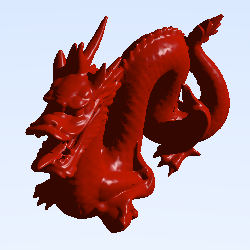
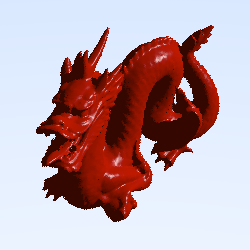
parallelize using rayon

Changed region(s): [[0.084, 0.056, 0.924, 0.952], [0.616, 0.308, 0.644, 0.336]]

diff --git a/src/main.rs b/src/main.rs
@@ -9,21 +9,17 @@ mod light;
 mod material;
 mod ray;
 
-use camera::orthographic_camera::OrthographicCamera;
 use camera::perspective_camera::PerspectiveCamera;
 use camera::Camera;
 use glm::Vec3;
-use hittable::bvh::BVH;
 use hittable::mesh::Mesh;
-use hittable::sphere::Sphere;
-use hittable::triangle::Triangle;
 use hittable::Hittable;
-use hittable_list::HittableList;
 use light::Light;
-use material::lambertian::Lambertian;
+use material::Material;
 use rand::prelude::thread_rng as rng;
 use rand::Rng;
 use ray::Ray;
+use rayon::prelude::*;
 
 // Camera projection types used for configuring which camera to use
 enum CameraProjection {
@@ -33,16 +29,15 @@ enum CameraProjection {
 
 // constants for image specifications
 // Change these to change the image!
-const IMAGE_WIDTH: u32 = 500 / 2; // 960 / 4;
-const IMAGE_HEIGHT: u32 = 500 / 2;
-const SAMPLES_LEVEL: usize = 1; // SAMPLES_LEVEL^2 samples per pixel
+const IMAGE_WIDTH: u32 = 500 * 2;
+const IMAGE_HEIGHT: u32 = 500 * 2;
+const SAMPLES_LEVEL: usize = 3; // SAMPLES_LEVEL^2 samples per pixel
 const EPSILON: f32 = 0.000008;
 const MAX_HIT_DISTANCE: f32 = f32::INFINITY;
 const AMBIENT_WEIGHT: f32 = 0.05;
 const DIFFUSE_WEIGHT: f32 = 0.8;
 const SPECULAR_WEIGHT: f32 = 0.5;
 const SPECULAR_COEFFICIENT: f32 = 120.0;
-const CAMERA_TYPE: CameraProjection = CameraProjection::Perspective;
 
 fn main() {
     // configure camera position
@@ -51,26 +46,14 @@ fn main() {
     let camera_up: Vec3 = glm::vec3(0.0, 1.0, 0.0);
 
     // create a camera
-    let ortho = &OrthographicCamera::new(
+    let camera = PerspectiveCamera::new(
         camera_origin,
         camera_lookat,
         camera_up,
-        45.0,
+        20.0,
         IMAGE_WIDTH as f32 / IMAGE_HEIGHT as f32,
     );
-    let perspective = &PerspectiveCamera::new(
-        camera_origin,
-        camera_lookat,
-        camera_up,
-        18.0,
-        IMAGE_WIDTH as f32 / IMAGE_HEIGHT as f32,
-    );
-    let camera: &dyn Camera = match CAMERA_TYPE {
-        CameraProjection::Orthographic => ortho,
-        CameraProjection::Perspective => perspective,
-    };
 
-    // let mesh = Mesh::create("assets/cow.obj", color(100, 200, 100), 22);
     let mesh = Mesh::create("assets/dragon.obj", color(158, 2, 0), 32);
 
     // create light source vector
@@ -80,47 +63,55 @@ fn main() {
     };
     let lights = vec![point_light1];
 
-    // convert from vector to adjusted and clamped RBG values
-    let vec3_to_rgb = |vec: &Vec3| {
-        let scaled = vec / (SAMPLES_LEVEL * SAMPLES_LEVEL) as f32;
-        let clamped = glm::clamp(&scaled, 0.0, 1.0);
-        let converted = clamped * 255.0;
-        image::Rgb([converted.x as u8, converted.y as u8, converted.z as u8])
-    };
-
-    // preallocate an array for the multi-jittered sampling
-    let mut jitter_boxes: [[[f32; 2]; SAMPLES_LEVEL]; SAMPLES_LEVEL] =
-        [[[0.0; 2]; SAMPLES_LEVEL]; SAMPLES_LEVEL];
-    // initialize the canonical arrangement for multi-jittered sampling
-    for j in 0..SAMPLES_LEVEL {
-        for i in 0..SAMPLES_LEVEL {
-            let j_float = j as f32;
-            let i_float = i as f32;
-            let n_float = SAMPLES_LEVEL as f32;
-            jitter_boxes[j][i][0] = (i_float + (j_float + rng().gen::<f32>()) / n_float) / n_float;
-            jitter_boxes[j][i][1] = (j_float + (i_float + rng().gen::<f32>()) / n_float) / n_float;
+    let mut pixel_coordinates: Vec<(u32, u32)> = Vec::new();
+    for x in (0..IMAGE_WIDTH).rev() {
+        for y in (0..IMAGE_HEIGHT).rev() {
+            pixel_coordinates.push((x, y));
         }
     }
-    println!("tracing rays . . .");
 
-    let mut img = image::RgbImage::new(IMAGE_WIDTH, IMAGE_HEIGHT);
-    let image_width = IMAGE_WIDTH as f32 - 1.0;
-    let image_height = IMAGE_HEIGHT as f32 - 1.0;
-    let mut pixel_color: Vec3;
-    for (x, y, pixel) in img.enumerate_pixels_mut() {
-        pixel_color = glm::vec3(0.0, 0.0, 0.0);
-        let jitter_boxes = shuffle_jittered_sampling(&mut jitter_boxes);
-        let x_float = x as f32;
-        let y_float = image_height - y as f32;
-        for j in 0..SAMPLES_LEVEL {
-            for i in 0..SAMPLES_LEVEL {
-                let u = (x_float + jitter_boxes[j][i][0]) / image_width;
-                let v = (y_float + jitter_boxes[j][i][1]) / image_height;
-                let r = camera.get_ray(u, v);
-                pixel_color += ray_color(&r, &mesh, &lights);
+    println!("tracing rays . . .");
+    let pixels: Vec<((u32, u32), Vec3)> = pixel_coordinates
+        .par_iter()
+        .map(|(x, y)| {
+            // preallocate an array for the multi-jittered sampling
+            let mut jitter_boxes: [[(f32, f32); SAMPLES_LEVEL]; SAMPLES_LEVEL] =
+                [[(0.0, 0.0); SAMPLES_LEVEL]; SAMPLES_LEVEL];
+            // initialize the canonical arrangement for multi-jittered sampling
+            for j in 0..SAMPLES_LEVEL {
+                for i in 0..SAMPLES_LEVEL {
+                    let j_float = j as f32;
+                    let i_float = i as f32;
+                    let n_float = SAMPLES_LEVEL as f32;
+                    jitter_boxes[j][i].0 =
+                        (i_float + (j_float + rng().gen::<f32>()) / n_float) / n_float;
+                    jitter_boxes[j][i].1 =
+                        (j_float + (i_float + rng().gen::<f32>()) / n_float) / n_float;
+                }
             }
-        }
-        *pixel = vec3_to_rgb(&pixel_color);
+
+            let image_width = IMAGE_WIDTH as f32 - 1.0;
+            let image_height = IMAGE_HEIGHT as f32 - 1.0;
+            let mut pixel_color = glm::vec3(0.0, 0.0, 0.0);
+            let jitter_boxes = shuffle_jittered_sampling(&mut jitter_boxes);
+            let x_float = *x as f32;
+            let y_float = image_height - *y as f32;
+            for j in 0..SAMPLES_LEVEL {
+                for i in 0..SAMPLES_LEVEL {
+                    let u = (x_float + jitter_boxes[j][i].0) / image_width;
+                    let v = (y_float + jitter_boxes[j][i].1) / image_height;
+                    let r = camera.get_ray(u, v);
+                    pixel_color += ray_color(&r, &mesh, &lights);
+                }
+            }
+            ((*x, *y), pixel_color)
+        })
+        .collect();
+
+    // convert pixel colors into 8 bit RGB pixels and place them in an image buffer
+    let mut img = image::RgbImage::new(IMAGE_WIDTH, IMAGE_HEIGHT);
+    for pixel in pixels.iter() {
+        img.put_pixel(pixel.0 .0, pixel.0 .1, vec3_to_rgb(&pixel.1));
     }
     img.save("out.png").unwrap();
 }
@@ -134,7 +125,7 @@ fn main() {
 ///
 /// # Returns
 /// - `Vec3` - the color that this ray contributes to the pixel
-fn ray_color(ray: &Ray, world: &dyn Hittable, lights: &Vec<Light>) -> Vec3 {
+fn ray_color(ray: &Ray, world: &dyn Hittable, lights: &[Light]) -> Vec3 {
     match world.hit(&ray, EPSILON, MAX_HIT_DISTANCE) {
         // if we hit something, get that object's color, shade with blinn-phong
         Some(hit) => {
@@ -167,27 +158,38 @@ fn ray_color(ray: &Ray, world: &dyn Hittable, lights: &Vec<Light>) -> Vec3 {
 /// - `&[[[f32; 2]; SAMPLES_LEVEL]; SAMPLES_LEVEL]` - the reference to the
 ///     sample locations to return ownership to the main loop
 fn shuffle_jittered_sampling(
-    jitter_boxes: &mut [[[f32; 2]; SAMPLES_LEVEL]; SAMPLES_LEVEL],
-) -> &[[[f32; 2]; SAMPLES_LEVEL]; SAMPLES_LEVEL] {
+    jitter_boxes: &mut [[(f32, f32); SAMPLES_LEVEL]; SAMPLES_LEVEL],
+) -> &[[(f32, f32); SAMPLES_LEVEL]; SAMPLES_LEVEL] {
     for j in 0..SAMPLES_LEVEL {
         for i in 0..SAMPLES_LEVEL {
             let k: usize = ((j as f32 + rng().gen::<f32>() * (SAMPLES_LEVEL - j) as f32) as usize)
                 .min(SAMPLES_LEVEL - 1);
-            let temp = jitter_boxes[j][i][0];
-            jitter_boxes[j][i][0] = jitter_boxes[k][i][0];
-            jitter_boxes[k][i][0] = temp;
+            let temp = jitter_boxes[j][i].0;
+            jitter_boxes[j][i].0 = jitter_boxes[k][i].0;
+            jitter_boxes[k][i].0 = temp;
         }
     }
     for i in 0..SAMPLES_LEVEL {
         for j in 0..SAMPLES_LEVEL {
             let k: usize = ((i as f32 + rng().gen::<f32>() * (SAMPLES_LEVEL - i) as f32) as usize)
                 .min(SAMPLES_LEVEL - 1);
-            let temp = jitter_boxes[j][i][1];
-            jitter_boxes[j][i][1] = jitter_boxes[j][k][1];
-            jitter_boxes[j][k][0] = temp;
+            let temp = jitter_boxes[j][i].1;
+            jitter_boxes[j][i].1 = jitter_boxes[j][k].1;
+            jitter_boxes[j][k].0 = temp;
         }
     }
     jitter_boxes
+}
+
+/// Convert from vector to adjusted and clamped RBG values.
+///
+/// # Arguments
+/// - `vec: &Vec3` - Vec3 to convert to a RGB pixel
+fn vec3_to_rgb(vec: &Vec3) -> image::Rgb<u8> {
+    let scaled = vec / (SAMPLES_LEVEL * SAMPLES_LEVEL) as f32;
+    let clamped = glm::clamp(&scaled, 0.0, 1.0);
+    let converted = clamped * 255.0;
+    image::Rgb([converted.x as u8, converted.y as u8, converted.z as u8])
 }
 
 /// Utility to convert from 8 bit RGB values to a Vec3

diff --git a/src/material.rs b/src/material.rs
@@ -1,6 +1,7 @@
 pub mod lambertian;
 
 use crate::hit_record::HitRecord;
+use crate::material::lambertian::Lambertian;
 use crate::ray::Ray;
 use glm::Vec3;
 
@@ -26,4 +27,39 @@ pub trait Material {
     /// # Returns
     /// - `Vec3` - the RGB color
     fn color(&self) -> Vec3;
+}
+
+pub enum MaterialType {
+    Lambertian(Lambertian),
+}
+
+impl Material for MaterialType {
+    /// Determine where the next ray goes after a hit depending on this
+    /// material.
+    ///
+    /// # Arguments
+    /// - self reference
+    /// - `incoming_ray` - ray which has just hit this material
+    /// - `hit_record` - specification of the hit which just ocurred
+    ///
+    /// # Returns
+    /// - optional `Ray`, or none if the ray was absorbed
+    fn scatter(&self, incoming_ray: &Ray, hit_record: &HitRecord) -> Option<Ray> {
+        match *self {
+            MaterialType::Lambertian(ref material) => material.scatter(&incoming_ray, &hit_record),
+        }
+    }
+
+    /// Retrieve the base color of the material.
+    ///
+    /// # Arguments
+    /// - self reference
+    ///
+    /// # Returns
+    /// - `Vec3` - the RGB color
+    fn color(&self) -> Vec3 {
+        match *self {
+            MaterialType::Lambertian(ref material) => material.color(),
+        }
+    }
 }

diff --git a/src/hittable/sphere.rs b/src/hittable/sphere.rs
@@ -1,7 +1,7 @@
 use crate::hit_record::HitRecord;
 use crate::hittable::aabb::AABB;
 use crate::hittable::Hittable;
-use crate::material::Material;
+use crate::material::MaterialType;
 use crate::ray::Ray;
 use glm::Vec3;
 
@@ -12,7 +12,7 @@ pub struct Sphere {
     /// radius of the sphere
     pub radius: f32,
     /// material to use for the sphere
-    pub material: Box<dyn Material>,
+    pub material: MaterialType,
 }
 
 /// Methods from the hittable trait
@@ -44,7 +44,7 @@ impl Hittable for Sphere {
                     ray: *ray,
                     distance: x,
                     outward_normal: (ray.at(x) - self.center) / self.radius,
-                    material: Some(&(*self.material)),
+                    material: Some(&self.material),
                 })
             } else {
                 x = (-half_b + root) / a;
@@ -54,7 +54,7 @@ impl Hittable for Sphere {
                         ray: *ray,
                         distance: x,
                         outward_normal: (ray.at(x) - self.center) / self.radius,
-                        material: Some(&(*self.material)),
+                        material: Some(&self.material),
                     })
                 } else {
                     None

diff --git a/src/hittable/triangle.rs b/src/hittable/triangle.rs
@@ -2,7 +2,7 @@ use super::super::EPSILON;
 use crate::hit_record::HitRecord;
 use crate::hittable::aabb::AABB;
 use crate::hittable::Hittable;
-use crate::material::Material;
+use crate::material::MaterialType;
 use crate::ray::Ray;
 use glm::Vec3;
 
@@ -15,7 +15,7 @@ pub struct Triangle {
     /// Normals at each vertex
     pub vertex_normals: [Vec3; 3],
     /// Material of the triangle
-    pub material: Box<dyn Material>,
+    pub material: MaterialType,
 }
 
 /// Methods from the hittable trait
@@ -62,7 +62,7 @@ impl Hittable for Triangle {
                             ray: *ray,
                             distance: t,
                             outward_normal: self.interpolate_normal(ray.at(t)),
-                            material: Some(&(*self.material)),
+                            material: Some(&self.material),
                         })
                     } else {
                         None

diff --git a/src/hittable/plane.rs b/src/hittable/plane.rs
@@ -1,7 +1,7 @@
 use crate::hit_record::HitRecord;
 use crate::hittable::aabb::AABB;
 use crate::hittable::Hittable;
-use crate::material::Material;
+use crate::material::MaterialType;
 use crate::ray::Ray;
 use glm::Vec3;
 
@@ -12,7 +12,7 @@ pub struct Plane {
     /// normal vector of the plane from the center point
     pub normal: Vec3,
     /// material of the plane
-    pub material: Box<dyn Material>,
+    pub material: MaterialType,
 }
 
 /// Methods for the hittable trait
@@ -37,7 +37,7 @@ impl Hittable for Plane {
                     ray: *ray,
                     distance: t,
                     outward_normal: self.normal,
-                    material: Some(&(*self.material)),
+                    material: Some(&self.material),
                 })
             } else {
                 None

diff --git a/src/hittable/mesh.rs b/src/hittable/mesh.rs
@@ -4,6 +4,7 @@ use crate::hittable::bvh::BVH;
 use crate::hittable::triangle::Triangle;
 use crate::hittable::Hittable;
 use crate::material::lambertian::Lambertian;
+use crate::material::MaterialType;
 use crate::ray::Ray;
 use glm::Vec3;
 
@@ -111,7 +112,7 @@ impl Mesh {
                     glm::normalize(&normals[indices[index * 3 + 1]]),
                     glm::normalize(&normals[indices[index * 3 + 2]]),
                 ],
-                material: Box::new(Lambertian { albedo: base_color }),
+                material: MaterialType::Lambertian(Lambertian { albedo: base_color }),
             });
         }
 

diff --git a/src/hit_record.rs b/src/hit_record.rs
@@ -1,4 +1,4 @@
-use crate::material::Material;
+use crate::material::MaterialType;
 use crate::ray::Ray;
 use glm::Vec3;
 
@@ -13,7 +13,7 @@ pub struct HitRecord<'a> {
     /// Normal vector of the geometry hit by the ray
     pub outward_normal: Vec3,
     /// Material hit
-    pub material: Option<&'a dyn Material>,
+    pub material: Option<&'a MaterialType>,
 }
 
 impl<'a> HitRecord<'a> {

diff --git a/src/light.rs b/src/light.rs
@@ -5,6 +5,7 @@ use super::SPECULAR_COEFFICIENT;
 use super::SPECULAR_WEIGHT;
 use crate::hit_record::HitRecord;
 use crate::hittable::Hittable;
+use crate::material::Material;
 use crate::ray::Ray;
 use glm::Vec3;
 
